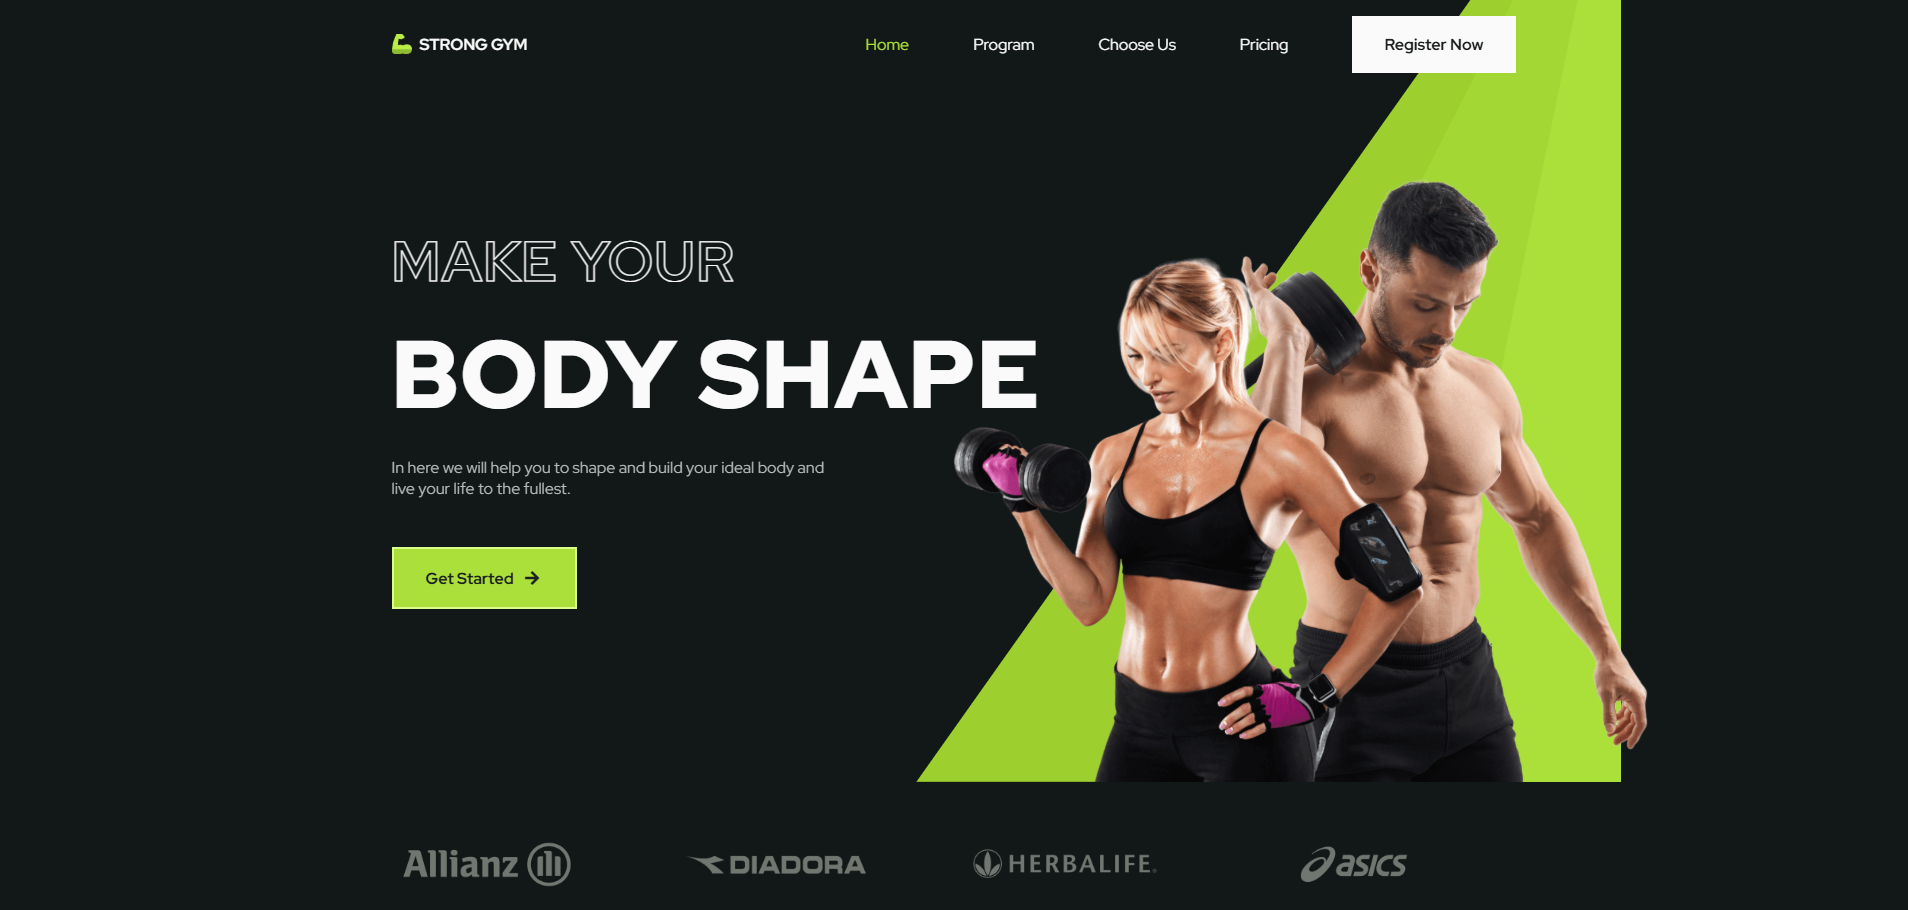
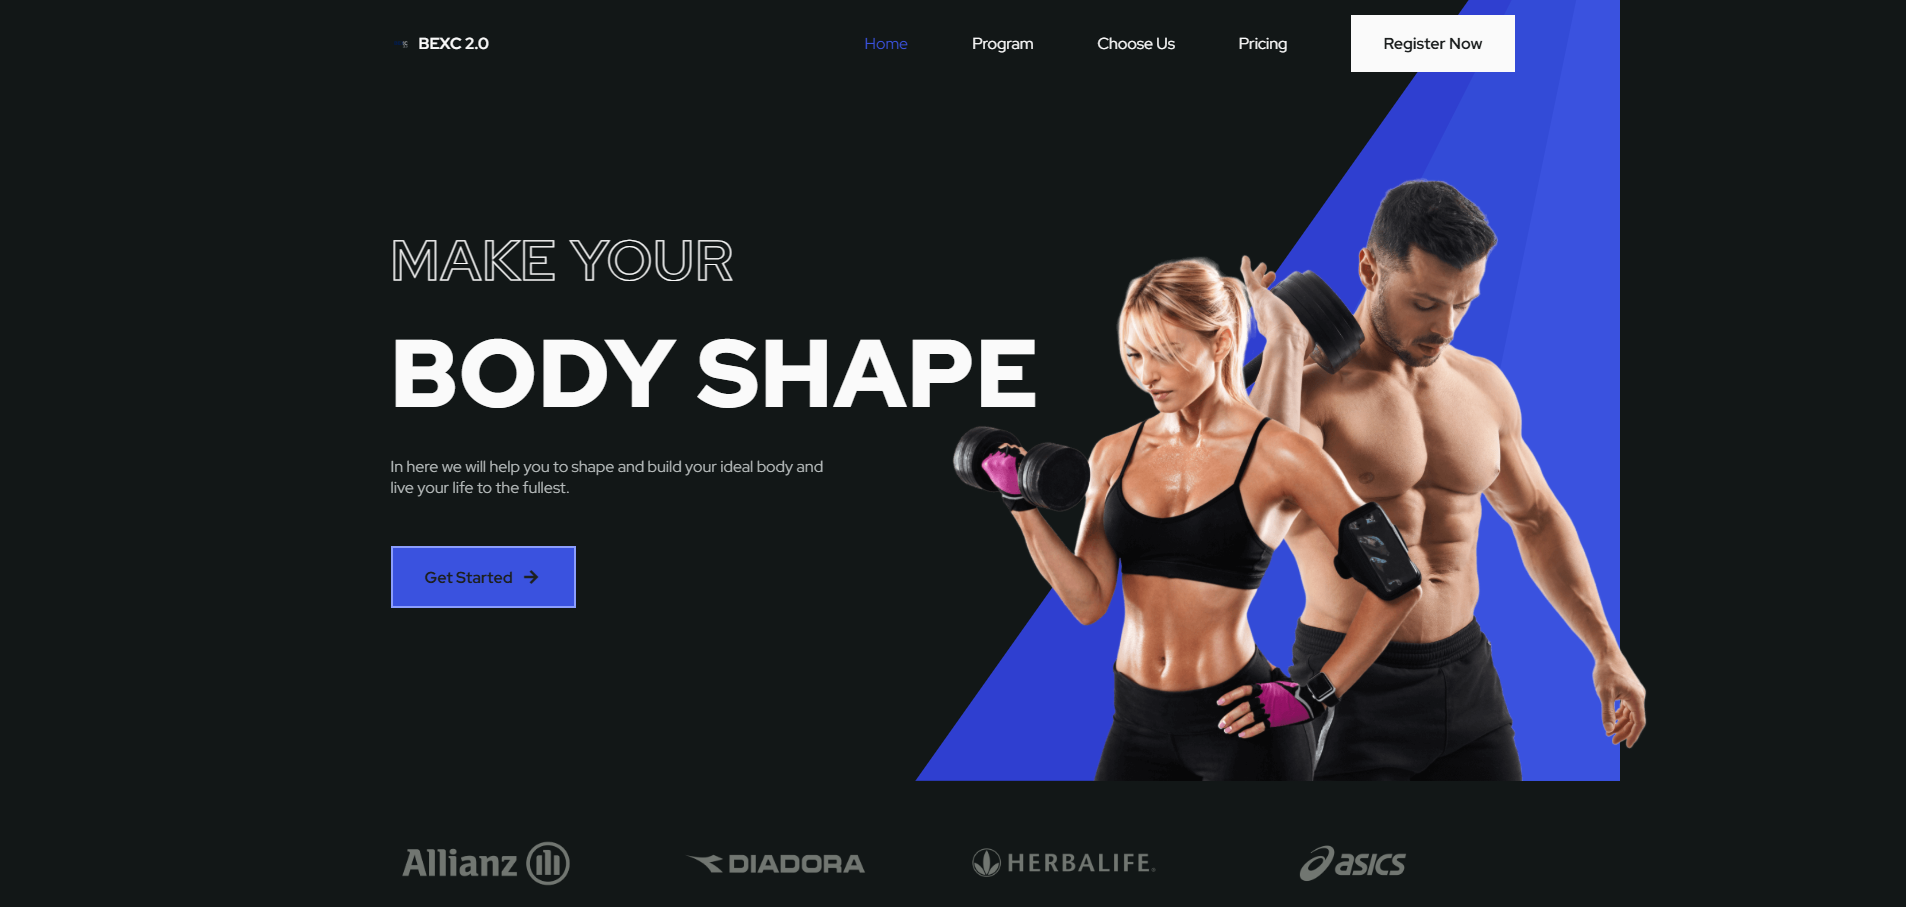
Add image project and links repo and demo

diff --git a/index.html b/index.html
@@ -230,7 +230,7 @@
                     </div>
                     <div class="proyect-item reveal reveal-up">
                         <img src="Images/Project2.png" alt="Online Store preview" loading="lazy">
-                        <h2 id="online-store-subheading">Strong Gym</h2>
+                        <h2 id="online-store-subheading">Bexc 2.0 Gym</h2>
                         <div class="rating">
                             <i class='bx bxs-star star'></i>
                             <i class='bx bxs-star star'></i>
@@ -243,8 +243,8 @@
                             facilitate contact with potential customers according to their needs.
                         </p>
                         <div class="btn-group">
-                            <a id="demo1-btn" href="https://bexc.netlify.app/" target="_blank" rel="noopener noreferrer" class="btn">Demo</a>
-                            <a id="repo1-btn" href="https://github.com/ramirolacci/Strong-Gym" target="_blank" rel="noopener noreferrer" class="btn">Repo</a>
+                            <a id="demo1-btn" href="https://bexc.netlify.app/#home" target="_blank" rel="noopener noreferrer" class="btn">Demo</a>
+                            <a id="repo1-btn" href="https://github.com/ramirolacci/Bexc2.0-Gym" target="_blank" rel="noopener noreferrer" class="btn">Repo</a>
                         </div>
                     </div>
                     <div class="proyect-item reveal reveal-up">
